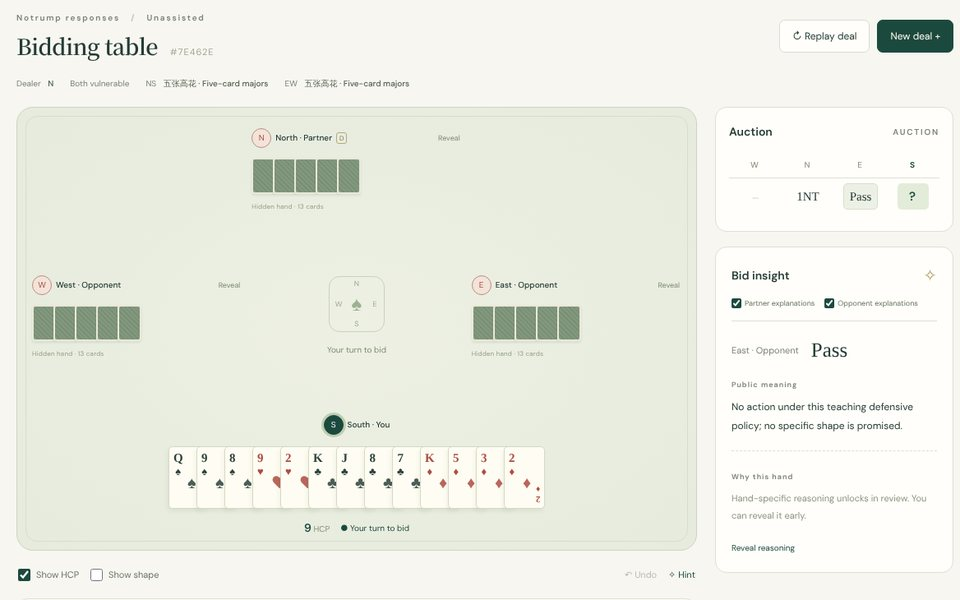
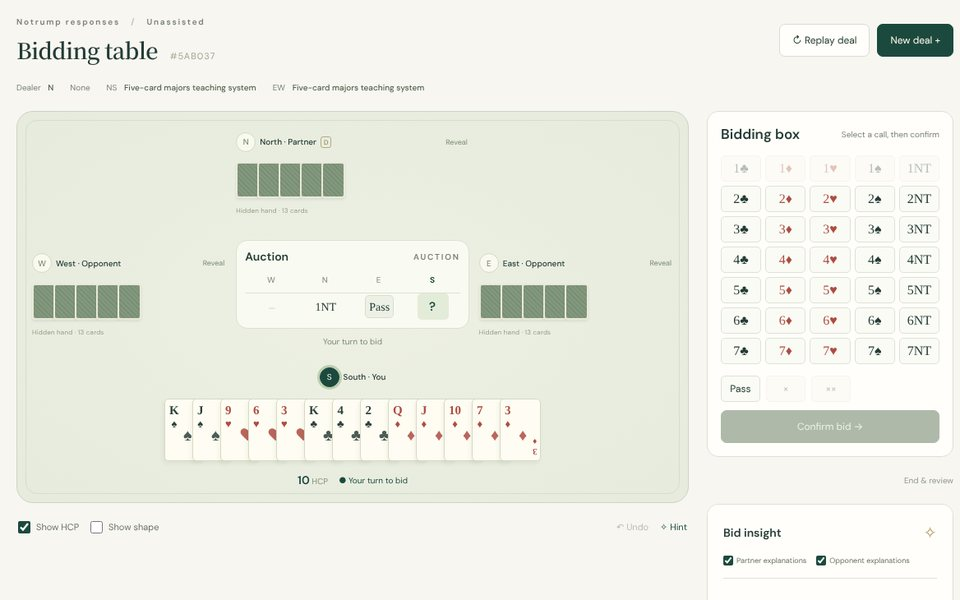
FutureLAB: check idea versions daily and show them in card titles
Claude-Session: https://claude.ai/code/session_017q5a9dK2BJQLRn7XBFbJvW

diff --git a/futurelab.md b/futurelab.md
@@ -33,7 +33,9 @@ subtitle: Ideas, prototypes, and side projects by Zhongqi (Thomas) Zhao.
         <span class="lab-status {{ idea.status }}">{% include lab-status.html status=idea.status %}</span>
         {% if idea.placeholder %}<span class="lab-sample"><span data-lang="en">Sample</span><span data-lang="zh">示例</span></span>{% endif %}
       </div>
-      {% capture idea_title %}{% if idea.title_zh %}<span data-lang="en">{{ idea.title }}</span><span data-lang="zh">{{ idea.title_zh }}</span>{% else %}{{ idea.title }}{% endif %}{% endcapture %}
+      {% assign idea_version = site.data.futurelab_versions[idea.repo].version %}
+      {% capture version_label %}{% if idea_version %} (v{{ idea_version }}){% endif %}{% endcapture %}
+      {% capture idea_title %}{% if idea.title_zh %}<span data-lang="en">{{ idea.title }}{{ version_label }}</span><span data-lang="zh">{{ idea.title_zh }}{{ version_label }}</span>{% else %}{{ idea.title }}{{ version_label }}{% endif %}{% endcapture %}
       <h3>{% if idea.url %}<a href="{{ idea.url | relative_url }}">{{ idea_title }}</a>{% else %}{{ idea_title }}{% endif %}</h3>
       <p>{% if idea.summary_zh %}<span data-lang="en">{{ idea.summary }}</span><span data-lang="zh">{{ idea.summary_zh }}</span>{% else %}{{ idea.summary }}{% endif %}</p>
       {% if idea.tags.size > 0 %}
